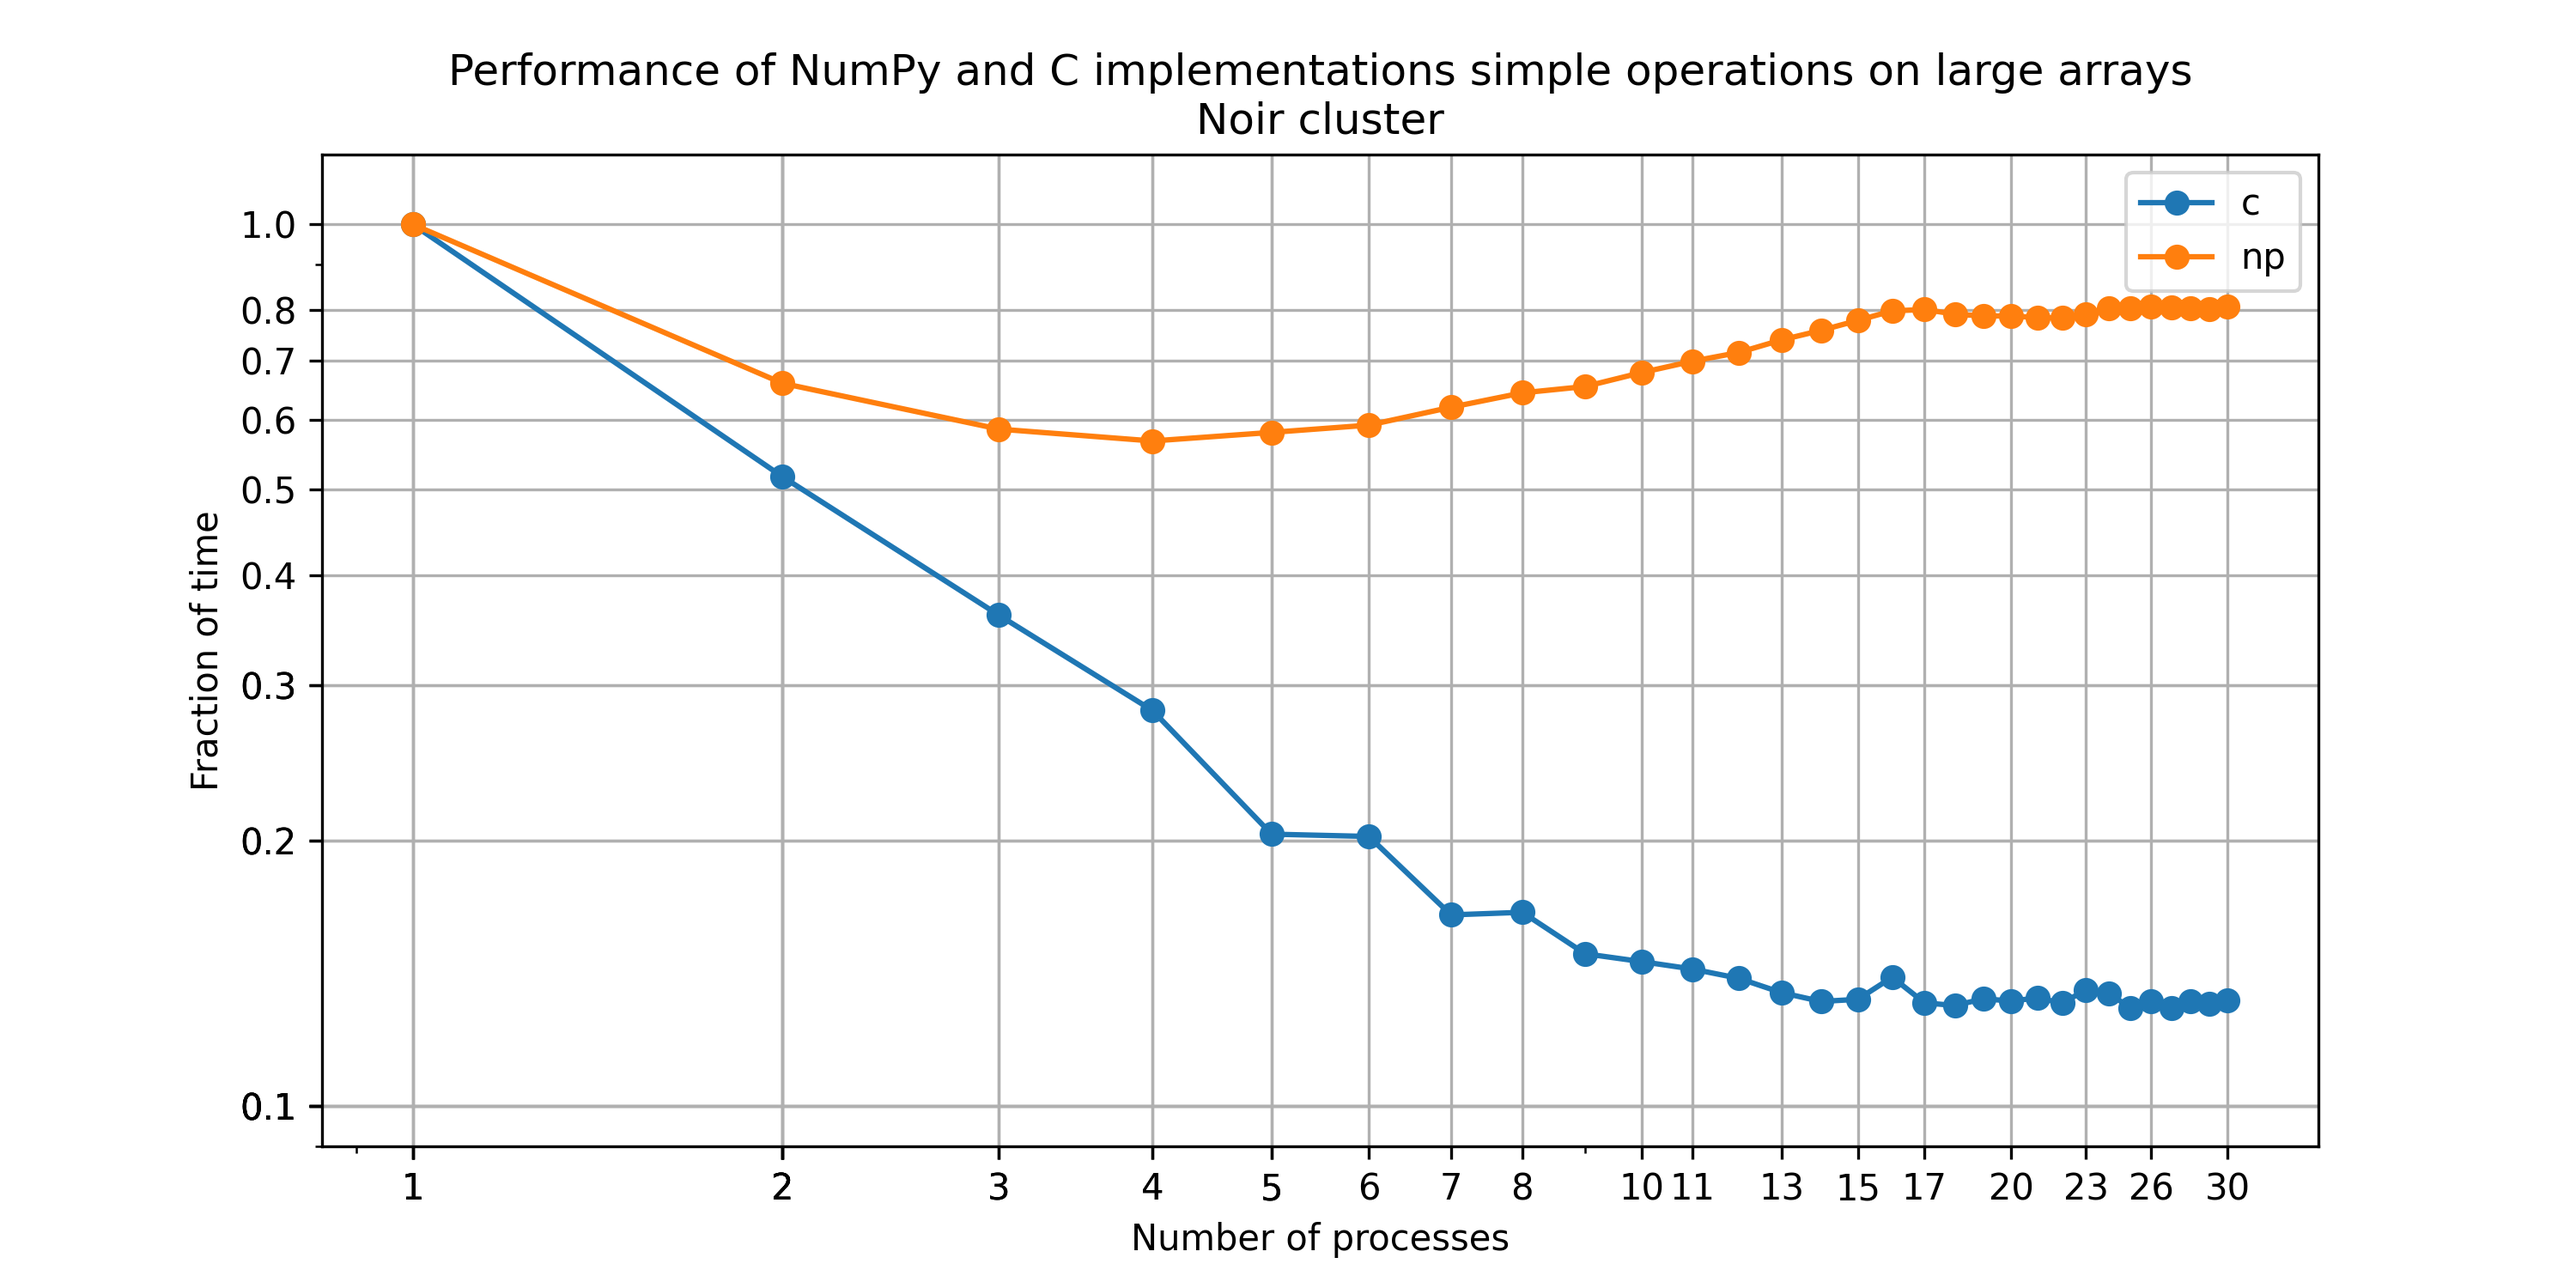
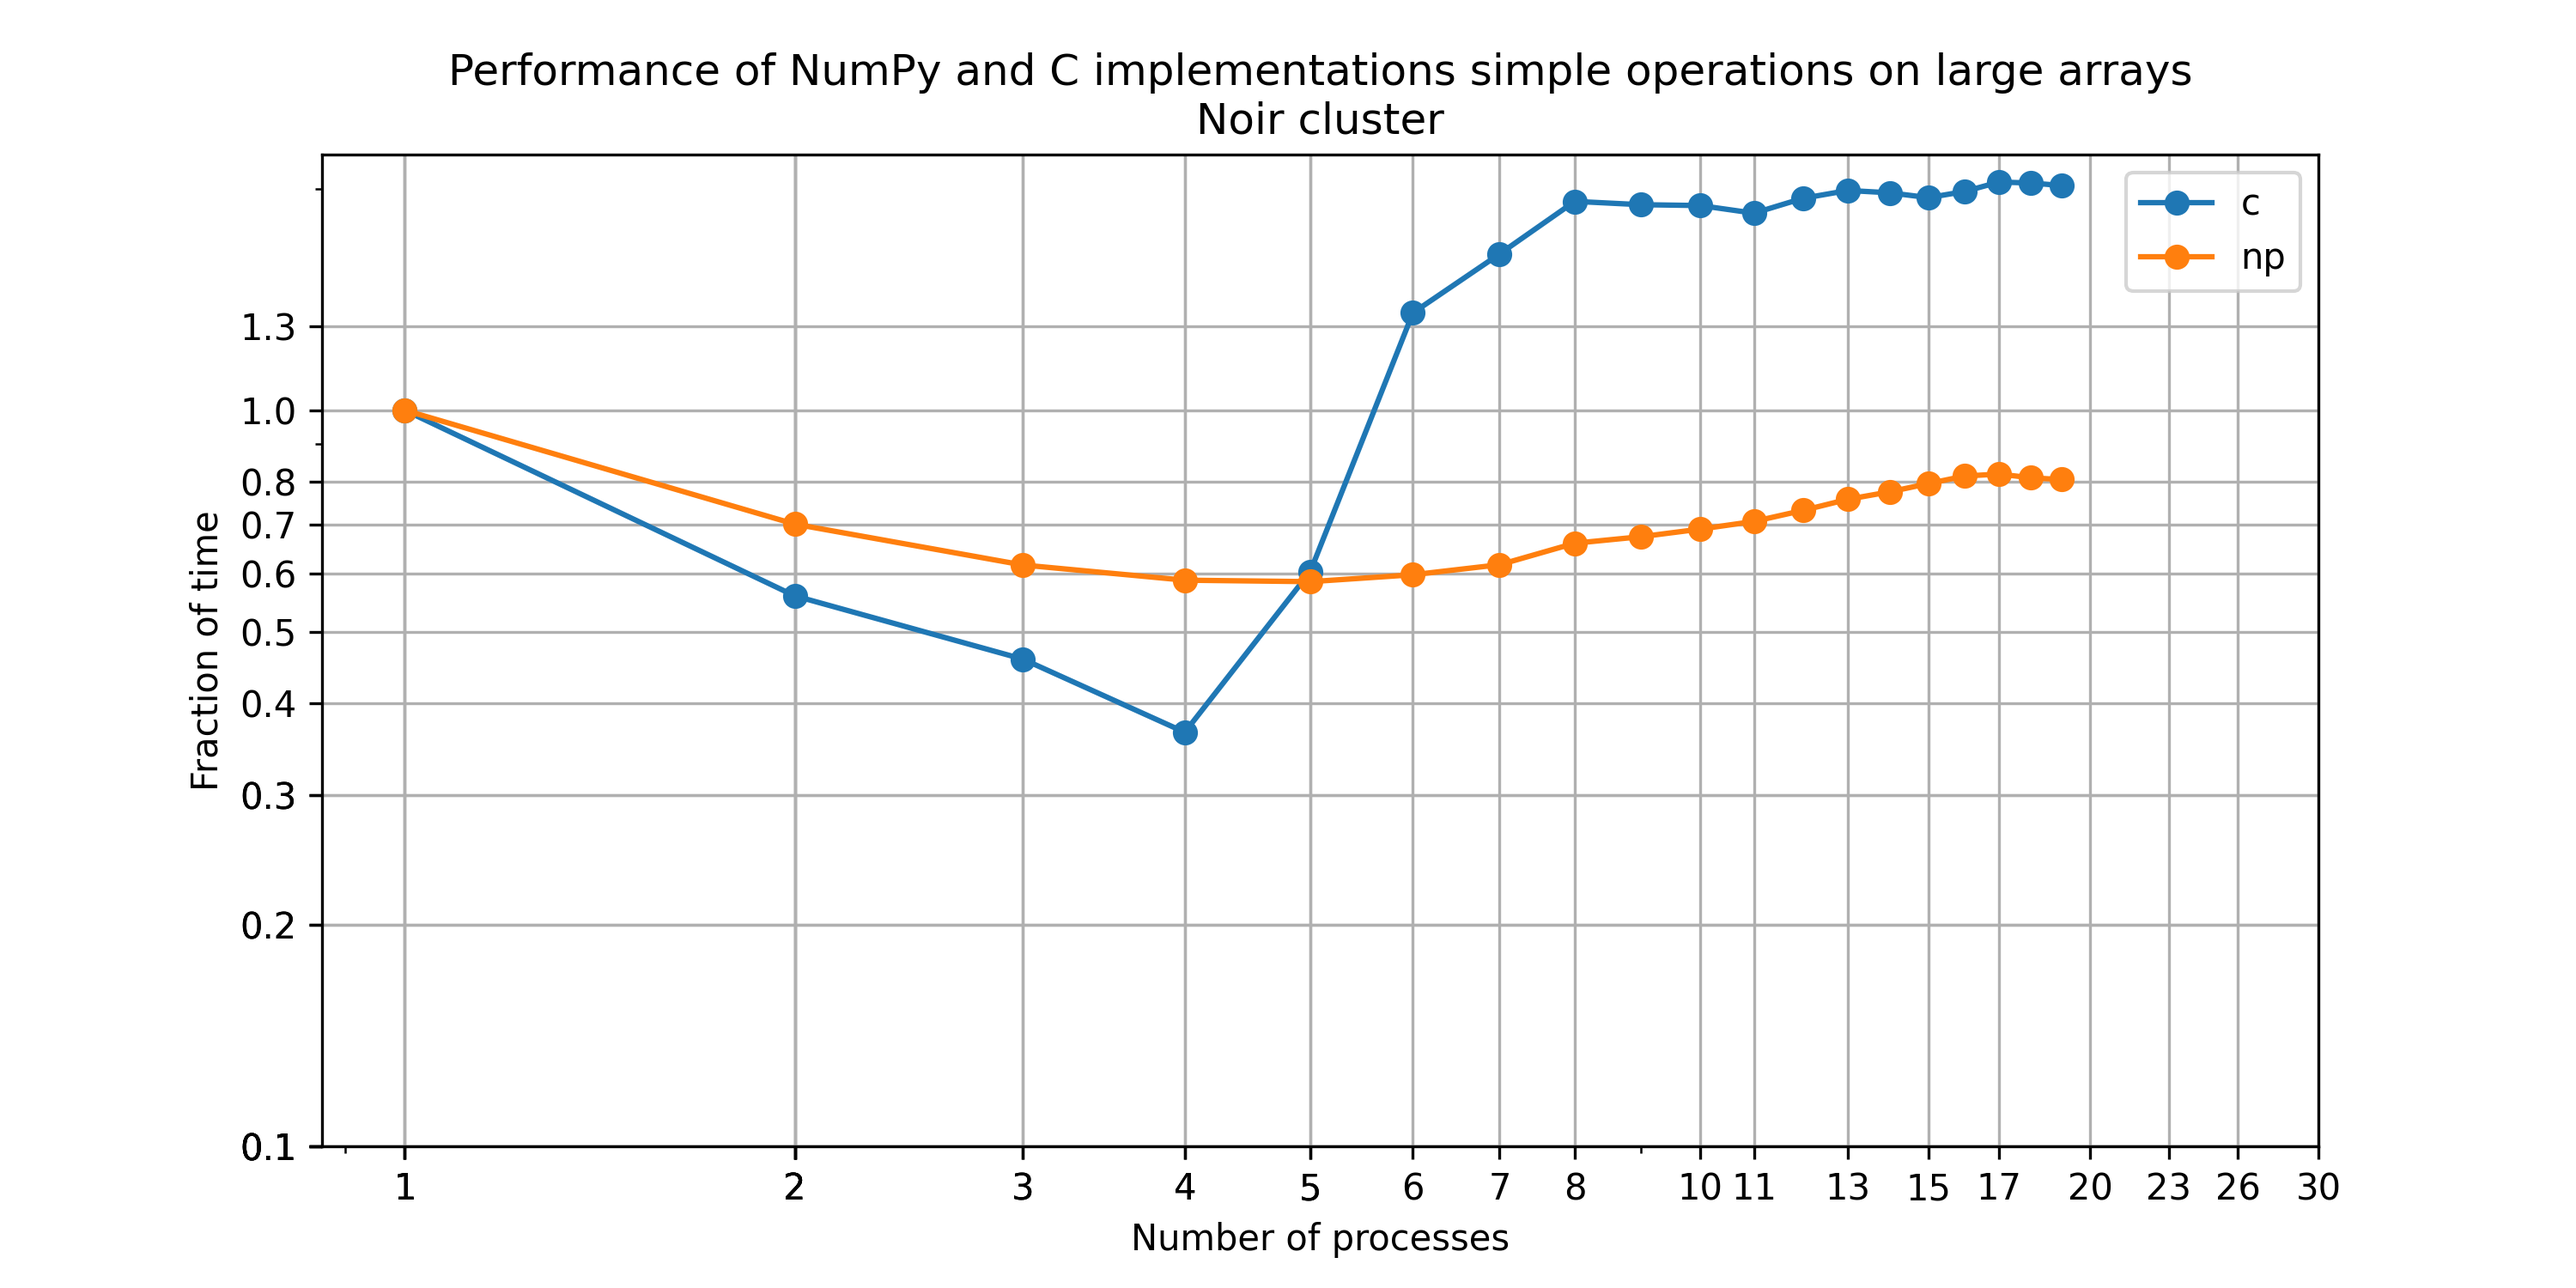
noir

Changed region(s): [[0.093, 0.1227, 0.899, 0.9507], [0.093, 0.8587, 0.124, 0.8893], [0.093, 0.1533, 0.124, 0.184]]

diff --git a/sim.py b/sim.py
@@ -9,36 +9,36 @@ import ctadata
 
 import click
 
-def op_np():
-    r = np.arange(10000000)
-    for j in range(30):
+def op_np(memory, duration):
+    r = np.arange(memory * 1000 * 1000, dtype=np.float64)
+    for j in range(duration):
         r = r*2
 
-def op_c():
-    subprocess.check_call(["./bench"])
+def op_c(memory, duration):
+    subprocess.check_call(["./bench " + str(memory) + " " + str(duration)], shell=True)
 
 
 def func(args):
-    i, version = args
+    i, version, memory, duration = args
 
     t0 = time.time()
 
     {
         'np': op_np,
         'c': op_c
-    }[version]()
+    }[version](memory, duration)
         
     print("took", time.time() - t0)
 
     return time.time() - t0
 
 
-def run(nproc: int, ntask: int, version: str) -> dict:
+def run(nproc: int, ntask: int, version: str, memory, duration) -> dict:
     t0 = time.time()
 
 
     with mp.Pool(nproc) as p:
-        times = p.map(func, [(i, version) for i in range(ntask)])
+        times = p.map(func, [(i, version, memory, duration) for i in range(ntask)])
 
     total_time = time.time() - t0
     print("total", total_time)
@@ -60,12 +60,14 @@ os.system("g++ -O3 -o bench bench.cxx")
 @click.argument("version", type=str)
 @click.option("-u", "--upload", is_flag=True)
 @click.option("-n", "--name")
-def main(nproc, ntask, version, upload, name):
+@click.option("-m", "--memory", type=int, default=10)
+@click.option("-d", "--duration", type=int, default=10)
+def main(nproc, ntask, version, upload, name, memory, duration):
     if '..' in nproc:
         nproc_s = range(*map(int, nproc.split("..")))
     else:
         nproc_s = [int(i) for i in nproc.split(",")]
-        
+
     ntask_s = [int(i) for i in ntask.split(",")]
     version_s = sys.argv[3].split(",")
 
@@ -77,7 +79,7 @@ def main(nproc, ntask, version, upload, name):
             for version in version_s:
                 print("nproc", nproc, "ntask", ntask, "version", version)
 
-                r = run(nproc, ntask, version)
+                r = run(nproc, ntask, version, memory, duration)
                 r["name"] = name
 
                 fn = f"reports/{name}/{nproc}_{ntask}_{version}.json"
